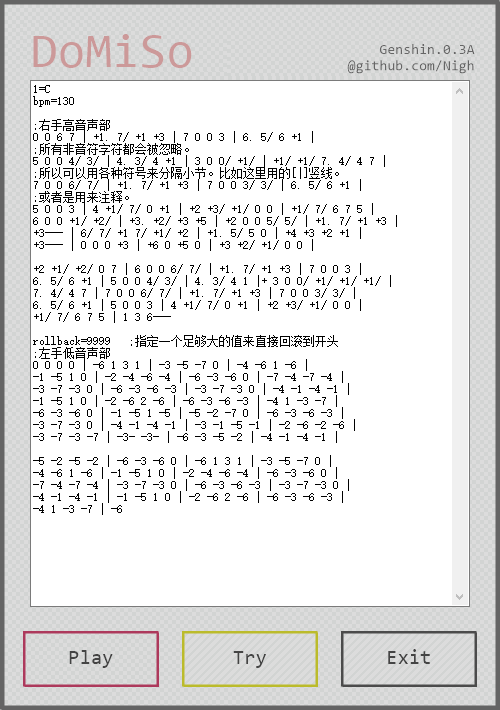
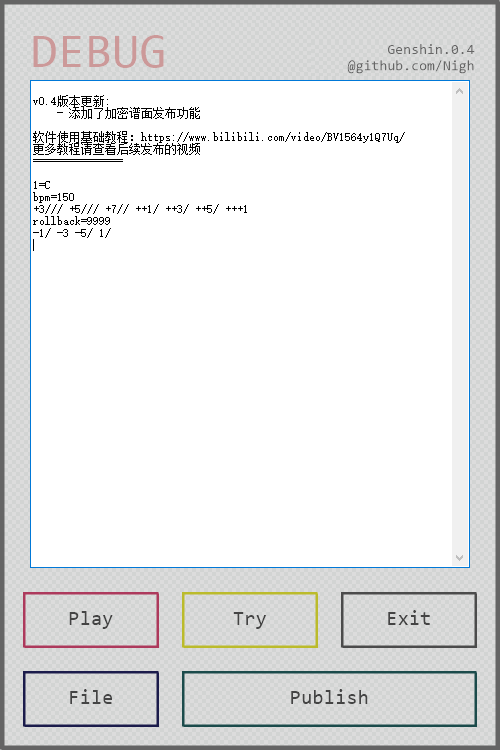
更新中文版Readme

diff --git a/README.md b/README.md
@@ -20,24 +20,30 @@ DoMiSo 简谱解释器 说明文档
 
 使用说明
 ------------------
-- 右键使用管理员权限打开本软件
-- 在输入框中粘贴有效的简谱
+- 在输入框中粘贴有效的简谱或使用`File`按钮选择`txt`或`dms`谱
 - 点击`Try`可以使用midi试听谱面
 - 在`原神`游戏已经启动，并且在演奏界面时，点击`Play`可以自动在游戏中演奏谱面
 - 按下`F8`快捷键可以停止游戏中的自动演奏
 - 按下`F9`快捷键可以开始游戏中的自动演奏
+- 当谱面中存在由一排等于号`=`如`========`构成的分割线时，分割线以上部分视为注释部分，不会演奏
+- 当谱面中存在注释部分时，使用`Publish`按钮可以发布加密谱。加密谱面只会显示注释部分，不会显示演奏谱面
 
 由于`原神`游戏以管理员权限启动，所以本软件需要管理员权限才能与游戏本体交互。
 
 
 当前版本
 ------------------
-v0.32A Genshin - 原神特别版
+v0.4 Genshin - 原神特别版
 
 ahk版本-`1.1.30.03`
 
 更新日志
 ------------------
+
+- 2021.5.17 v0.4 Genshin
+
+  添加谱面加密发布功能
+  添加自动请求管理员权限功能
 
 - 2021.4.6 v0.32A Genshin
 
